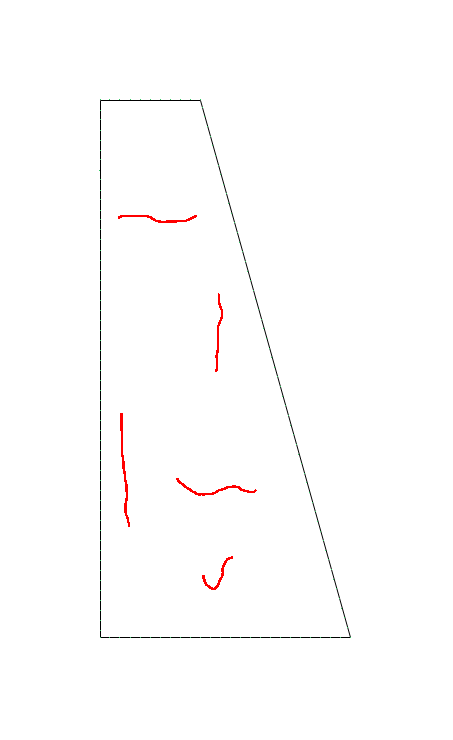
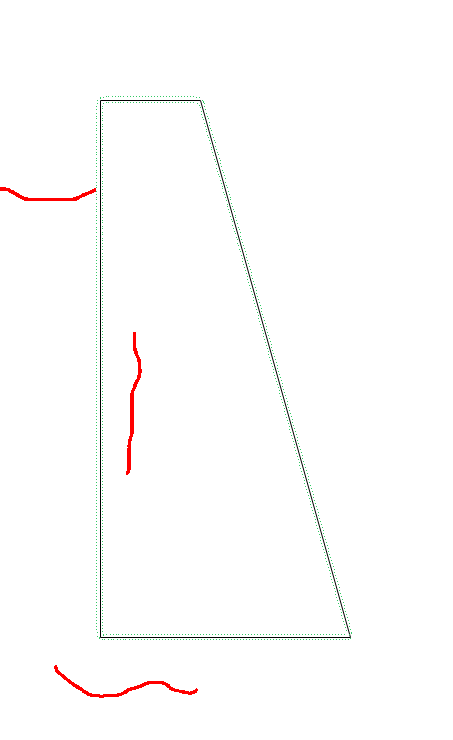
updated examples with segment anything examples

diff --git a/examples/load_and_build_examples.cpp b/examples/load_and_build_examples.cpp
@@ -41,7 +41,7 @@ TEST_CASE("Build test.") {
 
   REQUIRE(1);
 }
-
+/*
 TEST_CASE("Defect transfer test - simulated data.") {
   // Define these at compile time for testing since catch has a hard time with
   // command line arguments
@@ -65,7 +65,7 @@ TEST_CASE("Defect transfer test - simulated data.") {
 
   REQUIRE(markup.Run());
 }
-
+*/
 /*
 TEST_CASE("Defect transfer test - simulated data - automated edge detection.") {
   // Define these at compile time for testing since catch has a hard time with
@@ -76,15 +76,15 @@ TEST_CASE("Defect transfer test - simulated data - automated edge detection.") {
       .cad_path = data_root + "labelled_images/sim_cad_feature_label.json",
       .cad_image_path = data_root + "cad/sim_cad.png",
       .canny_edge_cad_path = data_root + "canny_edge/canny_edges_cad.png",
-      .image_path = data_root + "images/sim_view_2_image.jpeg",                         // switch between raw image and json here for feature label modes
+      .image_path = data_root + "images/sim_view_1_mask.png",                         // switch between raw image and json here for feature label modes
       .canny_edge_image_path = data_root + "canny_edge/canny_edges_image.png",
-      .defect_path = data_root + "marked_up_images/sim_view_2_image_markup.png",
+      .defect_path = data_root + "marked_up_images/sim_view_1_image_markup.jpeg",
       .intrinsics_path = data_root + "Radtan_intrinsics.json",
       .config_path = config_root + "SolutionParamsDefault.json",
       .ceres_config_path = config_root + "CeresParamsDefault.json",
       .initial_pose_path = data_root + "poses/initial_pose.json",
       .output_image_path =
-          data_root + "marked_up_cad/sim_cad_view_2_markup.png"};
+          data_root + "marked_up_cad/sim_cad_view_1_markup.png"};
 
   cad_image_markup::CadImageMarkup markup(inputs);
 
@@ -115,7 +115,7 @@ TEST_CASE("Defect transfer test - real data.") {
   REQUIRE(markup.Run());
 }
 */
-/*
+
 TEST_CASE("Defect transfer test - real data - automatic edge detection.") {
   // Define these at compile time for testing since catch has a hard time with
   // command line arguments
@@ -125,7 +125,7 @@ TEST_CASE("Defect transfer test - real data - automatic edge detection.") {
       .cad_path = data_root + "labelled_images/real_cad_feature_label.json",
       .cad_image_path = data_root + "cad/real_cad.png",
       .canny_edge_cad_path = data_root + "canny_edge/canny_edges_cad.png",
-      .image_path = data_root + "images/real_view_1_image.png",               // switch between raw image and json here for feature label modes
+      .image_path = data_root + "images/real_view_1_mask.png",               // switch between raw image and json here for feature label modes
       .canny_edge_image_path = data_root + "canny_edge/canny_edges_image.png",
       .defect_path = data_root + "marked_up_images/real_view_1_image.png",
       .intrinsics_path = data_root + "Radtan_intrinsics_phone.json",
@@ -139,4 +139,3 @@ TEST_CASE("Defect transfer test - real data - automatic edge detection.") {
 
   REQUIRE(markup.Run());
 }
-*/

diff --git a/src/lib/ImageBuffer.cpp b/src/lib/ImageBuffer.cpp
@@ -134,14 +134,12 @@ bool ImageBuffer::CannyEdgeDetect(const std::string& src_filename,
 
   dst.create(src.size(), src.type());
 
+  // detect edges 
   cv::cvtColor(src, src_gray, cv::COLOR_BGR2GRAY);
-
   cv::blur(src_gray, detected_edges, cv::Size(5,5));
-
   cv::Canny(detected_edges, detected_edges, lowThreshold, lowThreshold*ratio, kernel_size);
 
   dst = cv::Scalar::all(0);
-
   src.copyTo(dst, detected_edges);
 
   LOG_INFO("INPUT BUFFER: Saving canny edge image to: %s", target_filename.c_str());

diff --git a/src/lib/CadImageMarkup.cpp b/src/lib/CadImageMarkup.cpp
@@ -113,7 +113,7 @@ bool CadImageMarkup::LoadData() {
   }
   else if (params_.feature_label_type == "AUTOMATIC") {
 
-    // run Canny edge detection on input image
+    // run Canny edge detection on input cad image
     if (!image_buffer_.CannyEdgeDetect(inputs_.cad_image_path, inputs_.canny_edge_cad_path,
         params_.cannny_low_threshold_cad,params_.canny_ratio_cad,params_.canny_kernel_size_cad)) {
       LOG_ERROR("MARKUP: Canny Edge Detection Failed");
